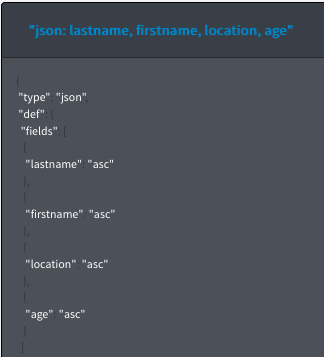
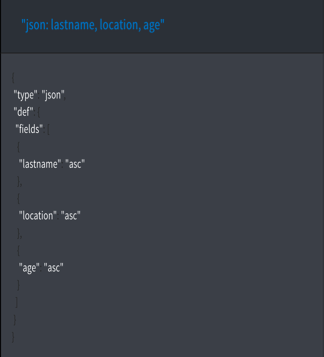
Update text and screenshots from review for fb70098.

diff --git a/tutorials/create_query.md b/tutorials/create_query.md
@@ -53,7 +53,7 @@ is the database that we use in this tutorial.
   acurl https://$ACCOUNT.cloudant.com/query-demo -X PUT
   ```
   {:codeblock}
-2.  See the results:
+2.  Review the results:
   ```json
   {
     "ok": true
@@ -131,7 +131,7 @@ that you create in this exercise contain the data that you use to query the `que
   
   **Note:** Notice that the '`@`' symbol, used to indicate that the data
   is included in a file, is identified by the supplied name.
-3.  See the results:
+3.  Review the results:
   ```json
   [
     {
@@ -250,26 +250,23 @@ in the following list:
 *	[Cloudant Geospatial](../api/cloudant-geo.html#cloudant-geospatial) – search for documents based on a spatial relationship. 
 *	[Cloudant Query](../api/cloudant_query.html#query) – use Mongo-style query syntax to search for documents by using logical operators. Cloudant Query is a combination of a view and a search index. We use Cloudant Query in this tutorial. 
 
-Since the queries you create in this tutorial search for both `lastname` and `firstname`, you must
-create two indexes. The field you search for must be the first field listed in the index. If an 
-index is not specified in the query, Cloudant chooses the best index to use. 
+> **Note:** If there is no available defined index that matches the specified query, then Cloudant 
+> uses the `_all_docs` index.
+
 
 ![Command Line icon](../images/CommandLineIcon.png) _Command line_
 
-To create the first index: 
-
-1.  Copy the following sample JSON data into a file named `query-index1.dat`.
+1.  Copy the following sample JSON data into a file named `query-index.dat`.
   ```json
   {
     "index": {
       "fields": [
-        "lastname",
-        "firstname",  
+        "lastname", 
         "location", 
         "age"
       ]
     },
-    "name": "query-index1",
+    "name": "query-index",
     "type": "json"
   }
   ```
@@ -277,58 +274,23 @@ To create the first index:
   
 2.  Run the following command to create an index:
   ```sh
-  acurl https://$ACCOUNT.cloudant.com/query-demo/_index -X POST -H "Content-Type: application/json" -d \@query-index1.dat
+  acurl https://$ACCOUNT.cloudant.com/query-demo/_index -X POST -H "Content-Type: application/json" -d \@query-index.dat
   ```
   {:codeblock}
   
-3.  See the results:
+3.  Review the results:
   ```json
   {
     "result":"created",
     "id":"_design/752c7031f3eaee0f907d18e1424ad387459bfc1d",
-    "name":"query-index1"
+    "name":"query-index"
   }
   ```
   {:codeblock}
 
-To create the second index: 
 
-1.  Copy the following sample JSON data into a file named `query-index2.dat`.
-  ```json
-  {
-    "index": {
-      "fields": [
-        "firstname",
-        "lastname",  
-        "location", 
-        "age"
-      ]
-    },
-    "name": "query-index2",
-    "type": "json"
-  }
-  ```
-  {:codeblock}
-  
-2.  Run the following command to create an index:
-  ```sh
-  acurl https://$ACCOUNT.cloudant.com/query-demo/_index -X POST -H "Content-Type: application/json" -d \@query-index2.dat
-  ```
-  {:codeblock}
-  
-3.  See the results:
-  ```json
-  {
-    "result":"created",
-    "id":"_design/752c7031f3eaee0f907d18e1424ad387459bfc1d",
-    "name":"query-index2"
-  }
-  ```
-  {:codeblock}
 
 ![Dashboard icon](../images/DashboardIcon.png) _Cloudant Dashboard_
-
-To create the first index:
 
 1.  Click **`+` > Query Indexes** on either the **All Documents** or **Design Documents** tab.
 2.  Paste the following sample JSON data into the **Index** field:
@@ -336,53 +298,22 @@ To create the first index:
   {
     "index": {
       "fields": [
-        "lastname",
-        "firstname",  
-        "location", 
-        "age"
-      ]
-    },
-    "name": "query-index1",
-    "type": "json"
-  }
-  ```
-  {:codeblock}
-  
-  The index was created. You can see the it in the right pane.
-  
-  ![Query index 1](../images/query-index1.png)
-
-To create the second index:
-
-1.  Click **`+` > Query Indexes**.
-2.  Paste the sample JSON into the Index field:
-  ```json
-  {
-    "index": {
-      "fields": [
-        "firstname",
         "lastname",  
         "location", 
         "age"
       ]
     },
-    "name": "query-index2",
+    "name": "query-index",
     "type": "json"
   }
   ```
   {:codeblock}
   
-  The index was created. You can see the it in the right pane.
+  The index was created. You can see it in the right pane.
   
-  ![Query index 2](../images/query-index2.png)
+  ![Query index](../images/query-index1.png)
 
-> **Note:** The first entry in the first index is `lastname`, and the first entry 
-  in the second index is `firstname`. When you create a query, the field you search
-  for must be listed first in the index.
 
-In the following three queries we run,
-one query searches for first name,
-and two queries search for last name.
 
 ## Creating a query
 
@@ -399,17 +330,19 @@ For anything but the most simple query, add the JSON to a data file and run it f
 
 ### Running a simple query
 
-This query searches for any documents whose `firstname` field contains the value `Sally`. 
+This example demonstrates how Cloudant Query uses the `query-index` to find the 
+`lastname` and filters the results in memory to find the `firstaname`.   
 
 ![Command Line icon](../images/CommandLineIcon.png) _Command line_
 
 1.  Copy the following sample JSON into a data file named `query1.dat`.
   ```json
-  {
-    "selector": {
-      "firstname" : "Sally"            
-    }        
-  }        
+    {
+      "selector": {
+            "lastname" : "Greene",
+            "firstname" : "Anna"            
+         }        
+    }       
   ```    
   {:codeblock}
   
@@ -419,17 +352,17 @@ This query searches for any documents whose `firstname` field contains the value
   ```
   {:codeblock}
   
-3.  See the query results:
+3.  Review the query results:
   ```json
   {
     "docs": [
       {
         "_id":"doc1",
         "_rev":"3-751ab049e8b5dd1ba045cea010a33a72",
-        "firstname":"Sally",
-        "lastname":"Brown",
-        "age":16,
-        "location":"New York City, NY"
+            "firstname":"Anna",
+            "lastname":"Greene",
+            "age":44,
+            "location":"Baton Rouge, LA"
       }
     ]
   }
@@ -441,11 +374,12 @@ This query searches for any documents whose `firstname` field contains the value
 1.  Click the **Query** tab.
 2.  Copy and paste the following sample JSON into the Cloudant Query window:
   ```json
-  {
-    "selector": {
-      "firstname" : "Sally"            
-    }        
-  }
+   {
+      "selector": {
+            "lastname" : "Greene",
+            "firstname" : "Anna"            
+         }        
+   }
   ```
   {:codeblock}
   
@@ -529,7 +463,7 @@ The extra details look like the following example:
   ```
   {:codeblock}
   
-3.  See the query results:
+3.  Review the query results:
   ```json
   {
     "docs": [
@@ -637,7 +571,7 @@ We use a selector expression like the following example:
   ```
   {:codeblock}
   
-3.  See the query results.
+3.  Review the query results:
   ```json
   {
     "docs": [
